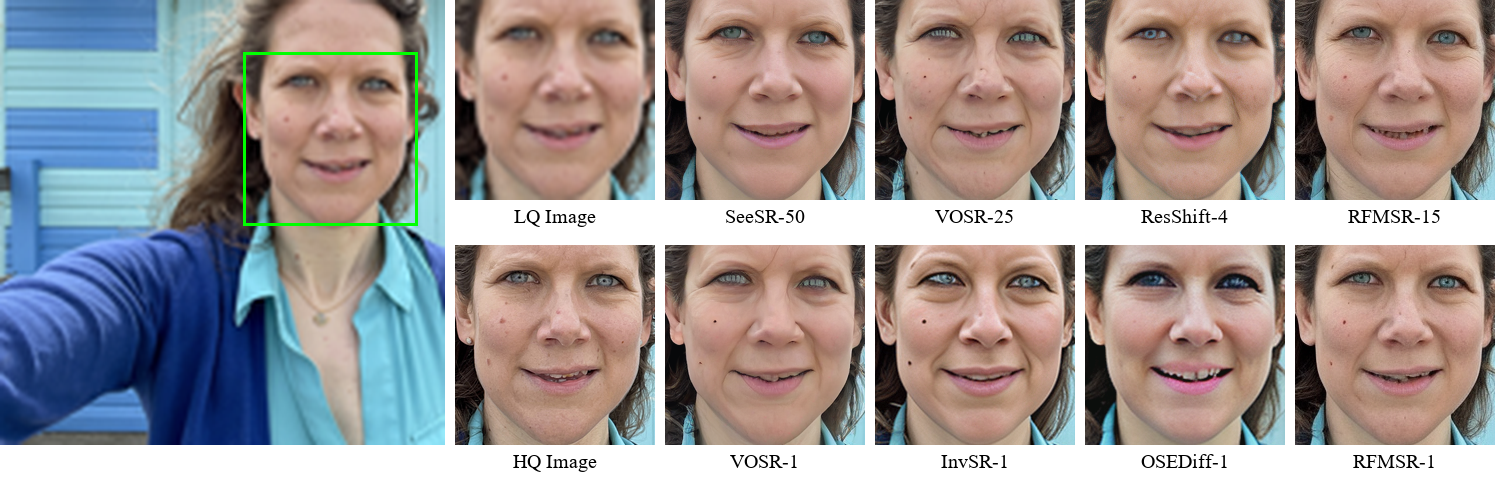
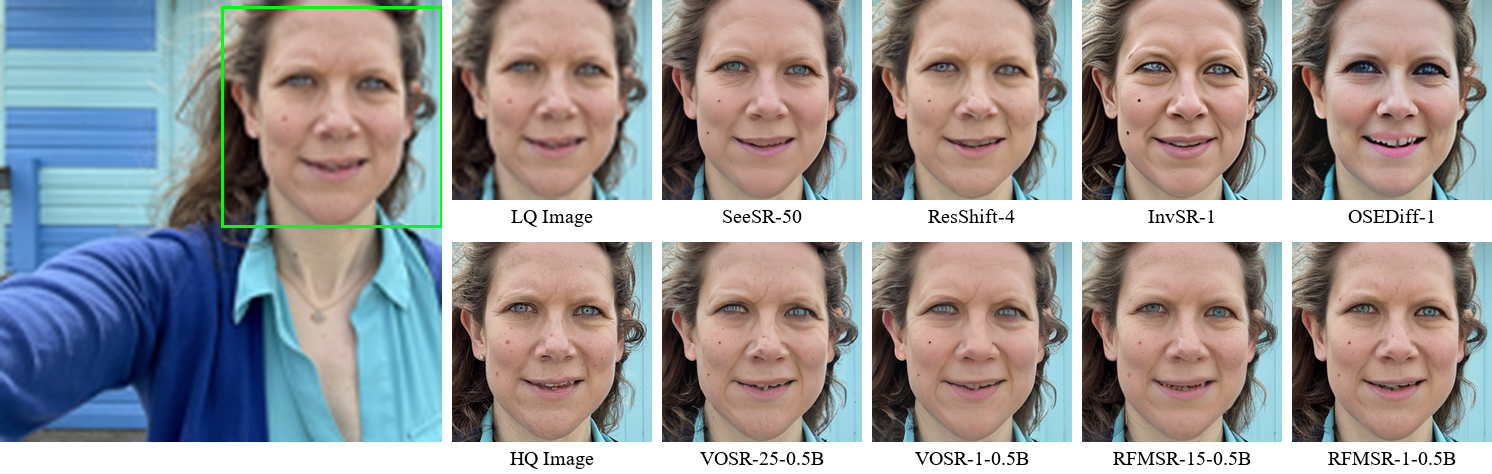
docs: document 1.4B backbone and refresh comparison figures
- add backbone/model-zoo and config-system sections, 1.4B weights layout
- update hardware requirements, inference defaults and CLI table
- trim per-figure captions, replace RealSR with LSDIR in the eval example
- refresh assets/comparison_1..4 (0.5B portrait, 1.4B text/logo, architecture)

diff --git a/README.md b/README.md
@@ -15,6 +15,7 @@
 
 ## News
 
+- **2026-11** — Added the RFMSR-1.4B backbone.
 - **2026-07** — Initial release: training & inference code, one-step and multi-step checkpoints.
 
 
@@ -22,8 +23,8 @@
 
 ### Hardware Requirements
 
-- **GPU VRAM**: >= 16 GB (recommended >= 24 GB for training)
-- Recommended: A100 / RTX 4090 / 3090
+- **Inference**: >= 16 GB GPU VRAM
+- **Training**: >= 48 GB GPU VRAM
 
 ### Installation
 
@@ -56,19 +57,92 @@ pip install huggingface_hub
 huggingface-cli download frozen2001/RFMSR ckpts --local-dir .
 ```
 
+Expected layout:
+
+```
+ckpts/
+├── RFMSR_0.5B/                 # 4-channel SD2.1 latent space
+│   ├── rfmsr.safetensors
+│   ├── rfmsr_os.safetensors
+│   └── rfmsr_consistency.safetensors
+├── RFMSR_1.4B/                 # 16-channel Qwen-Image latent space
+│   ├── rfmsr.safetensors
+│   └── rfmsr_os.safetensors
+├── stable-diffusion-2-1-base/vae/
+├── Qwen-Image-vae-2d/
+├── VOSR_0.5B_ms/checkpoints/ema_model.safetensors
+├── VOSR_1.4B_ms/checkpoints/ema_model.safetensors
+└── torch_cache/                # DINOv2 repo + weights, LPIPS / pyiqa backbones
+```
+
 | File | Description |
 |------|-------------|
-| `RFMSR_0.5B/rfmsr.safetensors` | Phase I — multi-step Flow Matching model |
-| `RFMSR_0.5B/rfmsr_os.safetensors` | Phase II — one-step model |
-| `RFMSR_0.5B/rfmsr_consistency.safetensors` | Consistency distillation — one-step model |
+| `RFMSR_0.5B/rfmsr.safetensors` | Phase I — multi-step model, 0.5B backbone |
+| `RFMSR_0.5B/rfmsr_os.safetensors` | Phase II — one-step model, 0.5B backbone |
+| `RFMSR_0.5B/rfmsr_consistency.safetensors` | Consistency distillation — one-step model, 0.5B backbone |
+| `RFMSR_1.4B/rfmsr.safetensors` | Phase I — multi-step model, 1.4B backbone |
+| `RFMSR_1.4B/rfmsr_os.safetensors` | Phase II — one-step model, 1.4B backbone |
+| `stable-diffusion-2-1-base/vae/` | SD2.1 VAE (4-channel latent), required by RFMSR-0.5B |
+| `Qwen-Image-vae-2d/` | Qwen-Image VAE (16-channel latent), required by RFMSR-1.4B |
+| `VOSR_0.5B_ms/`, `VOSR_1.4B_ms/` | VOSR DiT weights used to initialise Stage-1 training |
+| `torch_cache/` | Cached DINOv2 repo/weights and metric backbones (auto-downloaded if missing) |
+
+DINOv2 weights are pulled from GitHub on first use and cached in `ckpts/torch_cache`. For offline machines, pre-populate the cache:
+
+```bash
+modelscope download --model LULALULALU/VOSR_CKPT --include 'torch_cache/**' --local_dir ckpts
+```
 
 ### Data Preparation
 
 Training data (`traindata/`): place HR images (DIV2K, Flickr2K, etc.) directly under this directory.
 
-Validation data (`assets/validate_gt/`, `assets/validate_lq/`): paired 512x512 HR/LR images for validation during training.
+Validation data (`assets/validate_gt/`, `assets/validate_lq/`): paired 512x512 HR and 128x128 LR images for validation during training.
 
-Test data (`testdata/`): LSDIR, ImageNet512, and RealSR benchmarks for evaluation.
+Test data (`testdata/`): LSDIR and ImageNet512 test splits are included; put RealSR (Canon/Nikon) under `testdata/RealSR/{LR,HR}` for evaluation.
+
+
+## Model Zoo & Configuration
+
+### Backbones
+
+The architecture lives in a *backbone* config, everything else (data, optimiser, losses, logging) lives in an *experiment* config.
+
+| Backbone | DiT | Latent | VAE | DINOv2 | Checkpoint |
+|----------|-----|--------|-----|--------|------------|
+| `configs/backbones/rfmsr_0.5b.yaml` | 1024 wide, 28 blocks | 4-ch | SD2.1 | ViT-B (block 8) | `ckpts/RFMSR_0.5B/` |
+| `configs/backbones/rfmsr_1.4b.yaml` | 1536 wide, 36 blocks | 16-ch | Qwen-Image | ViT-L (block 17) | `ckpts/RFMSR_1.4B/` |
+
+### Config Files
+
+```
+configs/
+├── backbones/
+│   ├── rfmsr_0.5b.yaml          # DiT + VAE + DINOv2 spec
+│   └── rfmsr_1.4b.yaml
+├── infer_rfmsr.yaml             # inference defaults
+├── train_rfmsr.yaml             # Phase I
+├── train_rfmsr_os.yaml          # Phase II
+└── realesrgan_degradation.yaml  # degradation pipeline
+```
+
+An experiment config selects a backbone through its `backbone:` field; the backbone file supplies `ae` (VAE type, path, latent channels), `dit_arch` and `dinov2`, and the experiment file overrides anything else. `utils/config_loader.py` resolves relative paths and rejects inconsistent combinations (e.g. `dit_arch.out_channels` ≠ `ae.latent_channels`).
+
+Switch backbone from the command line, for both training and inference:
+
+```bash
+# Stage 1
+python train_rfmsr.py --backbone configs/backbones/rfmsr_1.4b.yaml
+
+# Stage 2 (also point pretrained_ckpt at the 1.4B Phase-I weights)
+python train_rfmsr_os.py --backbone configs/backbones/rfmsr_1.4b.yaml
+
+# Inference
+python infer_rfmsr.py --input input.png --backbone configs/backbones/rfmsr_1.4b.yaml \
+       --rfmsr_path ckpts/RFMSR_1.4B/rfmsr_os.safetensors --steps 1
+```
+
+The checkpoint must match the backbone: 4-channel weights only load into the 0.5B model, 16-channel weights only into the 1.4B model. For Stage 2 this means `pretrained_ckpt` in `configs/train_rfmsr_os.yaml` must point at a Phase-I checkpoint of the same size (e.g. `ckpts/RFMSR_1.4B/rfmsr.safetensors`).
 
 
 ## Training
@@ -81,12 +155,7 @@ Train the LightningDiT with Residual Flow Matching (velocity prediction):
 python train_rfmsr.py
 ```
 
-Key configuration in `configs/train_rfmsr.yaml`:
-- 10,000 iterations, batch size 32, GT crop 512x512
-- Learning rate 5e-5, EMA rate 0.999, bf16 AMP
-- RealESRGAN degradation pipeline (blur + noise + JPEG + resize)
-- Pretrained init from VOSR checkpoint (optional)
-
+Checkpoints are written to `<experiment.save_dir>/checkpoints/`: `rfmsr_step<N>.safetensors` (EMA weights for inference) and `training_state_step<N>.pth` (full state for `--resume`).
 
 
 ### Stage 2: One-Step Training
@@ -97,11 +166,12 @@ Train a one-step generator with perceptual and adversarial losses:
 python train_rfmsr_os.py
 ```
 
-Key configuration in `configs/train_rfmsr_os.yaml`:
-- Losses: velocity supervision + LPIPS (VGG) + Hinge GAN
-- PatchGAN discriminator in 4-channel latent space
-- Initialized from `ckpts/RFMSR_0.5B/rfmsr.safetensors`
-- Validation runs both 1-step and 15-step inference for comparison
+Both training scripts accept `--config`, `--backbone` and `--resume`:
+
+```bash
+python train_rfmsr.py --backbone configs/backbones/rfmsr_1.4b.yaml
+python train_rfmsr_os.py --resume experiments/checkpoints/training_state_step20000.pth
+```
 
 
 ## Inference
@@ -112,11 +182,17 @@ Key configuration in `configs/train_rfmsr_os.yaml`:
 # One-step inference (fast, recommended)
 python infer_rfmsr.py --input input.png --steps 1
 
-# Multi-step inference (higher quality)
-python infer_rfmsr.py --input input.png --steps 15
+# Multi-step inference (higher quality) — use the Phase-I checkpoint
+python infer_rfmsr.py --input input.png \
+       --rfmsr_path ckpts/RFMSR_0.5B/rfmsr.safetensors --steps 15
 
 # Process a folder
-python infer_rfmsr.py --input ./test_images/ --scale 4.0 --steps 15
+python infer_rfmsr.py --input ./test_images/ --scale 4.0 \
+       --rfmsr_path ckpts/RFMSR_0.5B/rfmsr.safetensors --steps 15
+
+# RFMSR-1.4B backbone
+python infer_rfmsr.py --input input.png --backbone configs/backbones/rfmsr_1.4b.yaml \
+       --rfmsr_path ckpts/RFMSR_1.4B/rfmsr_os.safetensors --steps 1
 ```
 
 ### Command-Line Arguments
@@ -125,32 +201,68 @@ python infer_rfmsr.py --input ./test_images/ --scale 4.0 --steps 15
 |----------|---------|-------------|
 | `--input` | (required) | Input image or directory |
 | `--rfmsr_path` | `ckpts/RFMSR_0.5B/rfmsr_os.safetensors` | Path to RFMSR checkpoint |
+| `--backbone` | `configs/backbones/rfmsr_0.5b.yaml` | Backbone config (DiT + VAE + DINOv2) |
 | `--scale` | 4.0 | Upscale factor |
-| `--steps` | 15 | Reverse integration steps (1 for one-step) |
+| `--steps` | 1 | Reverse integration steps (1 for one-step) |
 | `--flow_sigma` | 1.0 | Noise standard deviation |
 | `--seed` | 42 | Random seed |
 | `--color_correction` | wavelet | Color correction: `adain` / `wavelet` / `ycbcr` / `none` |
-| `--chopping` | True | Tiled inference for large images |
+| `--chopping` | True | Tiled latent inference (kicks in when the image exceeds the tile size) |
 | `--tile_size` | 512 | Pixel-space tile size |
 | `--tile_stride` | 256 | Sliding window stride |
-| `--vae_path` | `ckpts/stable-diffusion-2-1-base` | SD2.1 VAE path |
+| `--vae_path` | from backbone config | Override the VAE path |
 | `--denoise_device` | cuda | Device for RFMSR + VAE |
 | `--output` | outputs | Output directory |
 
+All defaults come from `configs/infer_rfmsr.yaml`; CLI flags override them.
+
 ### One-Step vs Multi-Step
 
-| Mode | Steps | Speed | Quality | Use Case |
-|------|-------|-------|---------|----------|
-| One-step (`rfmsr_os`) | 1 | Fast | Good | Real-time / batch processing |
-| Multi-step (`rfmsr`) | 15 | Slower | Best | Maximum quality |
+| Mode | Checkpoint | Steps | Speed | Quality | Use Case |
+|------|------------|-------|-------|---------|----------|
+| One-step | `rfmsr_os.safetensors` | 1 | Fast | Good | Real-time / batch processing |
+| Multi-step | `rfmsr.safetensors` | 15 | Slower | Best | Maximum quality |
 
 
 ## Evaluation
 
-Run the metrics script to compute PSNR, SSIM, LPIPS, DISTS, NIQE, MUSIQ, MANIQA, and CLIPIQA between SR results and GT images (paired by filename):
+Run the metrics script to compute PSNR, SSIM, LPIPS, DISTS, FID, NIQE, MUSIQ, MANIQA, and CLIPIQA between SR results and GT images (paired by filename):
 
 ```bash
-python utils/cal_metrics.py --gt_dir testdata/RealSR/HR --sr_dir outputs/RealSR
+python utils/cal_metrics.py --gt_dir testdata/LSDIR/test_gt --sr_dir outputs/LSDIR
+```
+
+| Argument | Default | Description |
+|----------|---------|-------------|
+| `--gt_dir` | (required) | Ground-truth (HR) directory |
+| `--sr_dir` | (required) | SR result directory |
+| `--bs` | 1 | Batch size |
+| `--log_name` | `metrics.log` | Log file, written next to `--sr_dir` |
+| `--no_y_channel` | off | Use RGB instead of the Y channel for PSNR / SSIM |
+
+
+## Repository Layout
+
+```
+RFMSR/
+├── infer_rfmsr.py                # inference entry
+├── train_rfmsr.py                # Stage 1: multi-step flow matching
+├── train_rfmsr_os.py             # Stage 2: one-step adversarial training
+├── configs/
+│   ├── backbones/                # DiT + VAE + DINOv2 spec per model size
+│   ├── infer_rfmsr.yaml
+│   ├── train_rfmsr.yaml
+│   ├── train_rfmsr_os.yaml
+│   └── realesrgan_degradation.yaml
+├── models/
+│   ├── lightningdit.py           # LightningDiT backbone
+│   ├── rfmsr.py                  # RFMSR wrapper: [z_lr, x_t] → velocity
+│   ├── latent_codec.py           # unified SD2.1 / Qwen-Image VAE interface
+│   ├── qwenimage_vae2d.py        # 16-channel Qwen-Image VAE
+│   └── dinov2_encoder.py         # frozen DINOv2 conditioning
+├── datapipe/                     # Real-ESRGAN degradation + dataset
+├── utils/                        # config loading, losses, color fix, metrics
+└── assets/                       # figures
 ```
 
 
@@ -163,26 +275,26 @@ Below are qualitative comparisons on benchmark datasets. Each figure shows the l
 <p align="center">
   <img src="assets/comparison_1.png" alt="RFMSR portrait comparison" width="100%">
 </p>
-<p align="center"><em>Portrait super-resolution (4×). RFMSR-15 and RFMSR-1 faithfully recover facial details without over-smoothing or hallucinated artifacts.</em></p>
+<p align="center"><em>Portrait super-resolution (4×, RFMSR-0.5B).</em></p>
 
 ### Text & Logo
 
 <p align="center">
   <img src="assets/comparison_2.png" alt="RFMSR text comparison" width="100%">
 </p>
-<p align="center"><em>Text super-resolution (4×). RFMSR preserves sharp letter edges and correct glyph shapes, while one-step baselines (VOSR-1, InvSR-1, OSEDiff-1) introduce distortion or miss strokes.</em></p>
+<p align="center"><em>Text and logo super-resolution (4×, RFMSR-1.4B).</em></p>
 
 <p align="center">
-  <img src="assets/comparison_6.png" alt="RFMSR text comparison 2" width="100%">
+  <img src="assets/comparison_3.png" alt="RFMSR text comparison 2" width="100%">
 </p>
-<p align="center"><em>Another text example (4×). RFMSR-1 achieves comparable fidelity to the 15-step model, demonstrating strong one-step distillation.</em></p>
+<p align="center"><em>Another text example (4×, RFMSR-1.4B).</em></p>
 
-### Landscape & Nature
+### Architecture
 
 <p align="center">
-  <img src="assets/comparison_4.png" alt="RFMSR landscape comparison" width="100%">
+  <img src="assets/comparison_4.png" alt="RFMSR architecture comparison" width="100%">
 </p>
-<p align="center"><em>Landscape super-resolution (4×). RFMSR recovers fine rock and grass textures without the blurriness or over-sharpening seen in competing methods.</em></p>
+<p align="center"><em>Architecture super-resolution (4×, RFMSR-1.4B).</em></p>
 
 
 
@@ -198,9 +310,12 @@ This project builds upon the following open-source works:
 
 - [VOSR](https://github.com/CSWRY/VOSR)
 - [Stable Diffusion 2.1](https://huggingface.co/Manojb/stable-diffusion-2-1-base)
+- [Qwen-Image](https://github.com/QwenLM/Qwen-Image)
+- [DINOv2](https://github.com/facebookresearch/dinov2)
 - [Real-ESRGAN](https://github.com/xinntao/Real-ESRGAN)
 - [LPIPS](https://github.com/richzhang/PerceptualSimilarity)
 - [BasicSR](https://github.com/XPixelGroup/BasicSR)
+- [PyIQA](https://github.com/chaofengc/IQA-PyTorch)
 
 ## Citation
 
@@ -209,7 +324,7 @@ If you find this work useful, please cite:
 ```bibtex
 @misc{huang2026rfmsrresidualflowmatching,
       title={RFMSR: Residual Flow Matching for Image Super-Resolution},
-      author={Shuwei Huang and Tianyao Luo and Jicheng Liu and Pan Zhou},
+      author={Shuwei Huang and Tianyao Luo and Jicheng Liu},
       year={2026},
       eprint={2607.12753},
       archivePrefix={arXiv},
